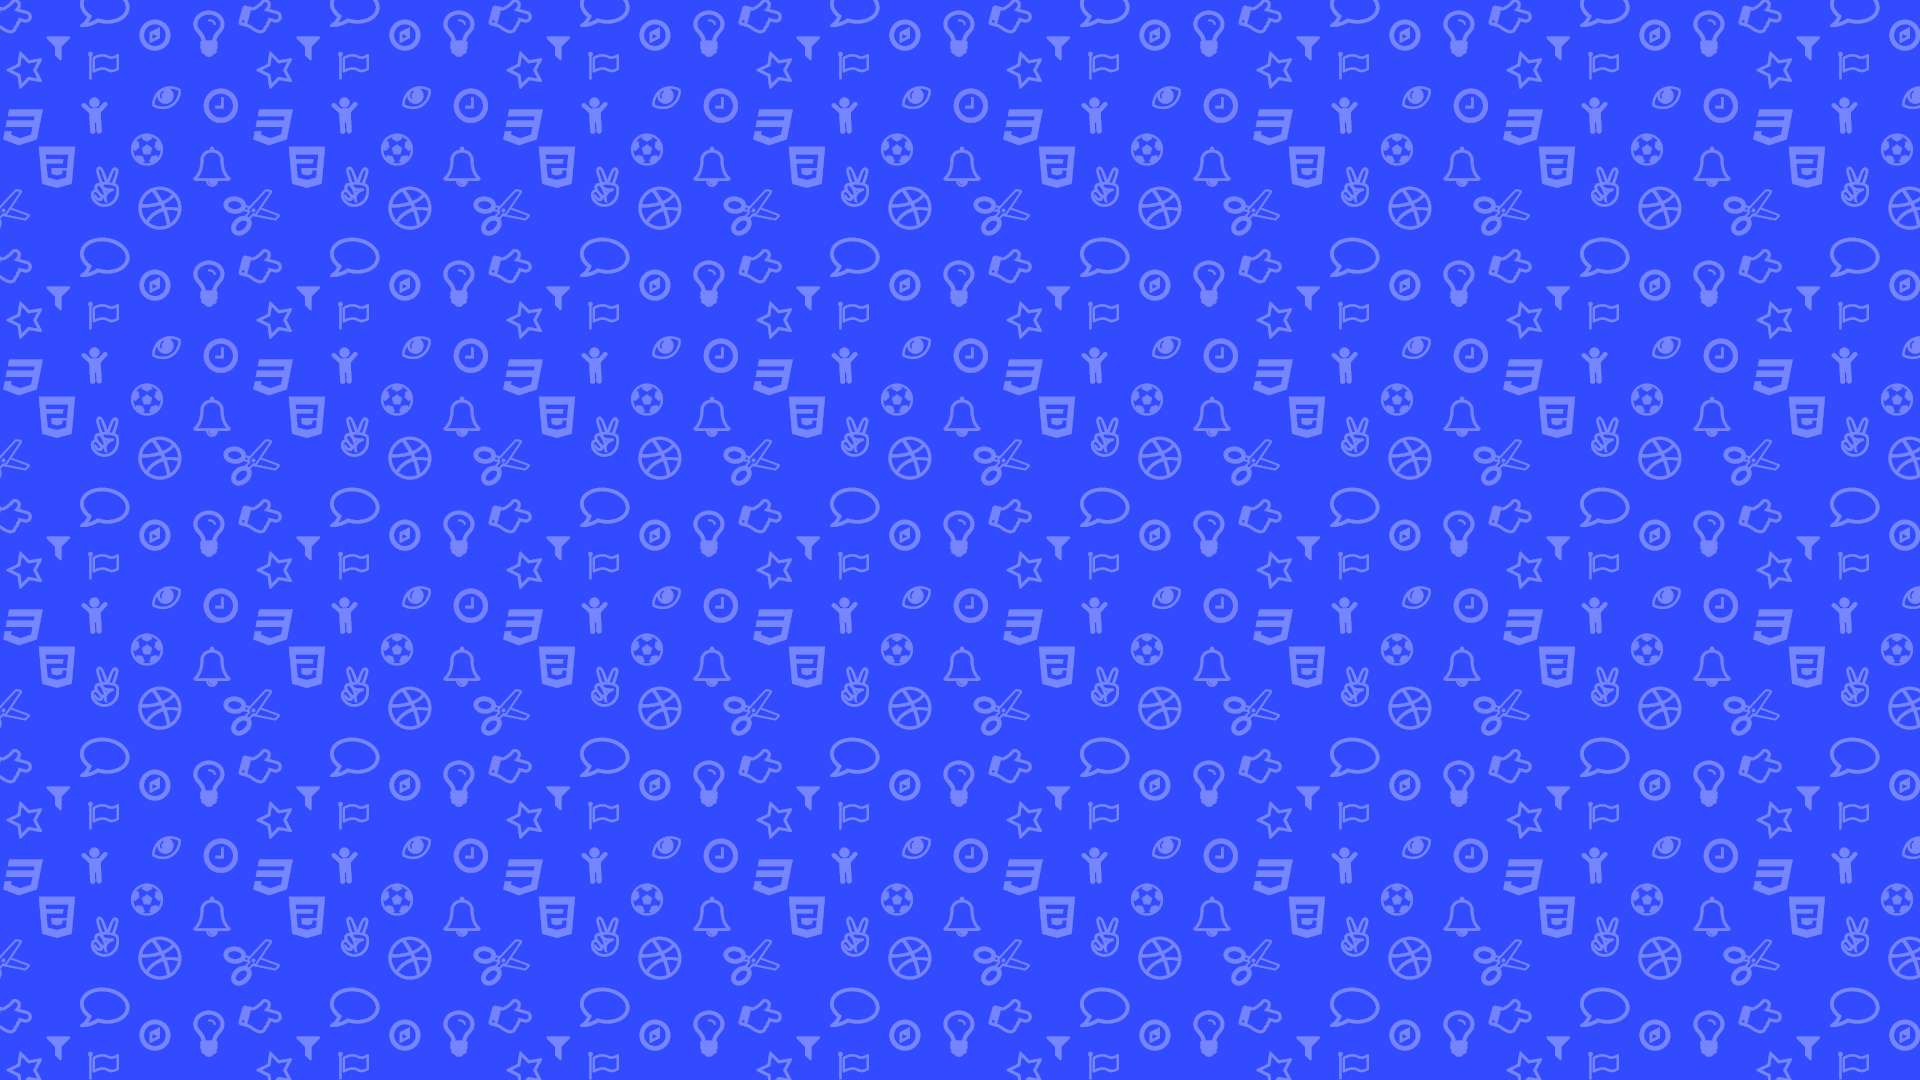
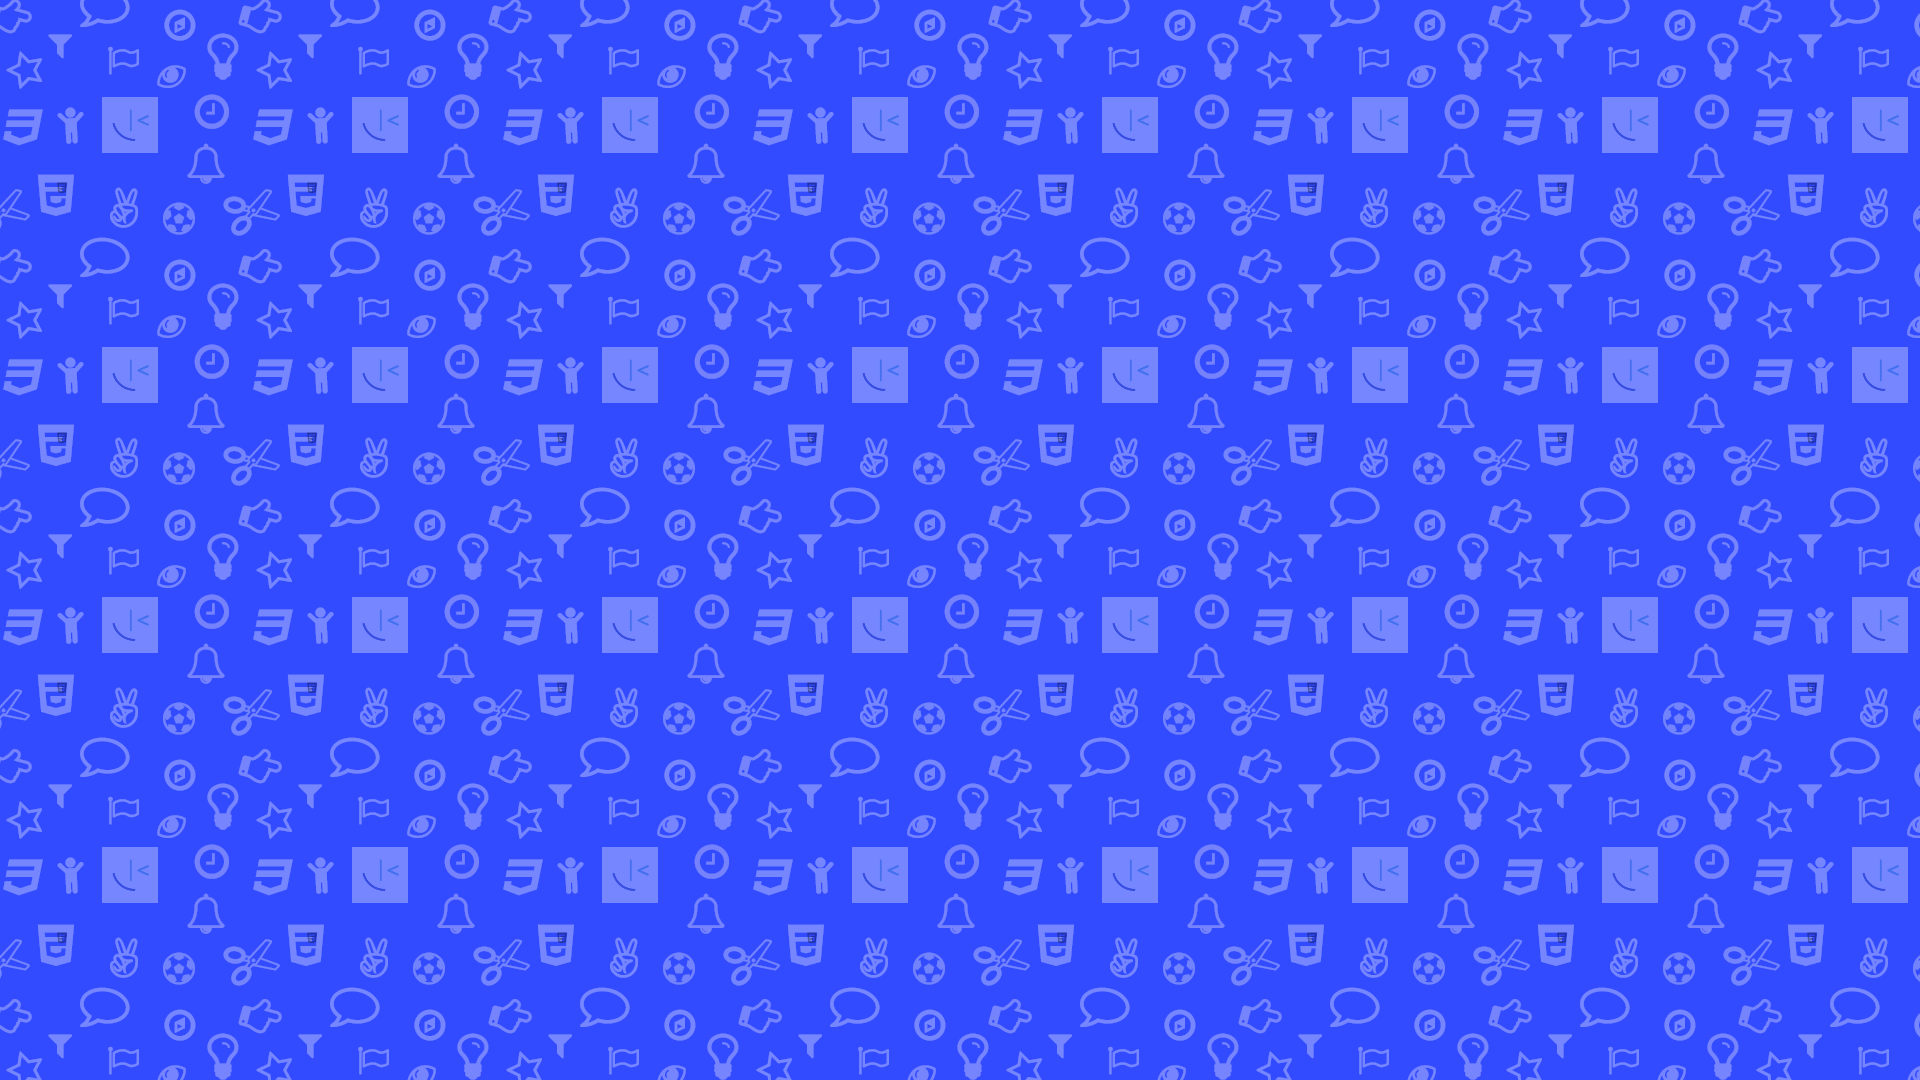
add new feature md

diff --git a/README.md b/README.md
@@ -1,7 +1,9 @@
 # Frontend Mentor - Bookmark landing page
 
-<div style="width: 100%; height: 180px; background: url('./images/tile_background.png') center; background-size: 200%; border-radius: 5px; display: flex; align-items: center; justify-content: center;">
-    <img src="./images/Frontend Mentor_iduaR-iy4z_0.png" alt="logo" width="80" height="80" style="background: white; padding: 1em; border-radius: 200%"/>
+<div align="center">
+
+![logo](./images/background.PNG)
+
 </div>
 
 
